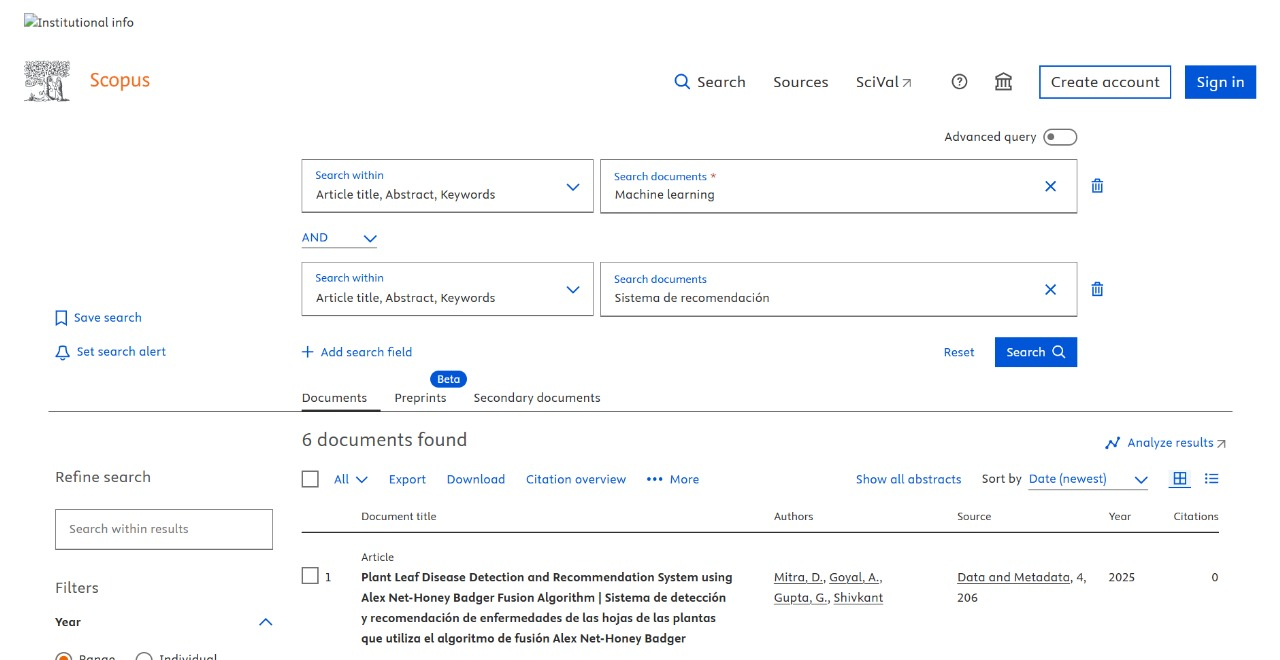
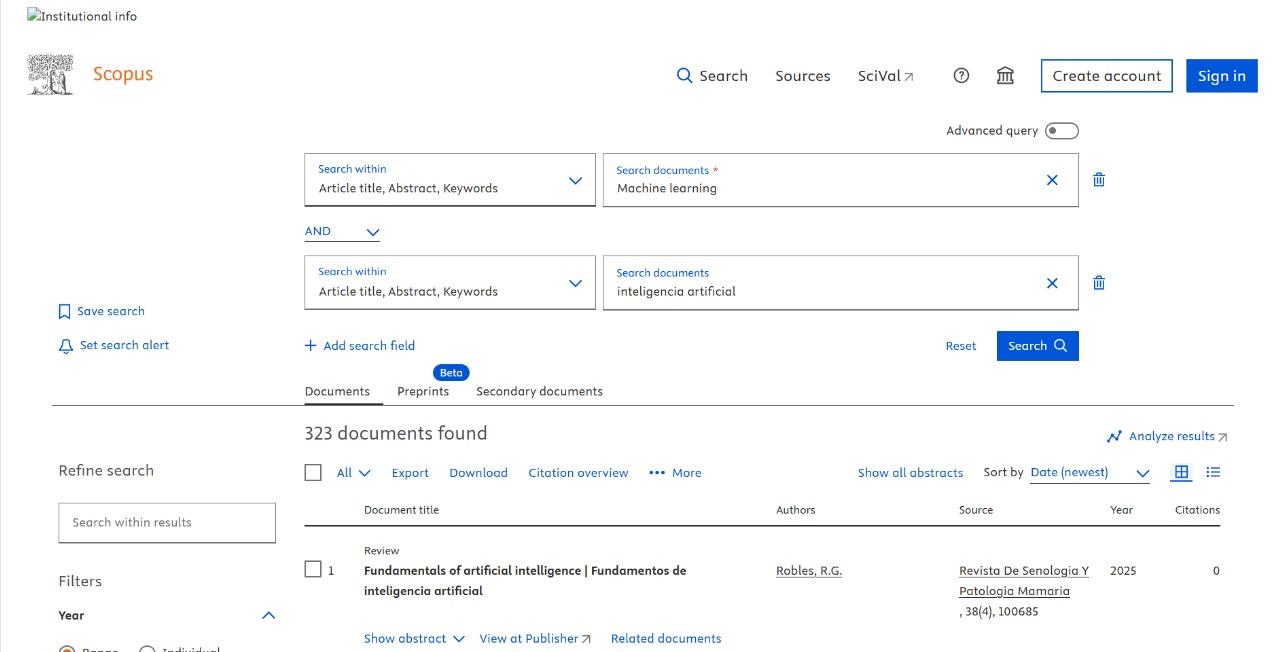
Se corrige orden de busqueda, se añade informacion de los artículos se completa la página

diff --git a/index.html b/index.html
@@ -21,8 +21,8 @@
             <tr>
                 <td><button onclick="mostrarPresentacion()">OBJETIVO DEL EJERCICIO</button></td>
                 <td><button onclick="mostrarBusqueda()">BUSQUEDA ARTÍCULOS</button></td>
-                <td><button onclick="mostrarArtFrank()">ARTÍCULOS FRANK</button></td>
                 <td><button onclick="mostrarArtJhoan()">ARTÍCULOS JHOAN</button></td>
+                <td><button onclick="mostrarArtFrank()">ARTÍCULOS FRANK</button></td>
                 <td><button onclick="aviso()">DECLARACIÓN IA</button></td>
             </tr>
         </table>   
@@ -48,25 +48,79 @@
             <p>Cabe aclarar, que elegimos este tema porque los sistemas de recomendación hacen parte de nuestra vida diaria, ya que casi todas las aplicaciones que usamos nos sugieren cosas según nuestros gustos.</p>
             <br>
         </div>  
-        <div class="artfrank">
-            <hr>
-            <h2 class="head3">SELECCIÓN DE ARTÍCULOS POR PARTE DE FRANK</h2> 
-            <p>Para la busqueda, armamos cadenas de búsqueda diferentes con operadores booleanos (AND, OR, NOT), posteriormente seleccionamos artículos de interés. A condinuación, se muestra en imágenes la cadena de busqueda usada por cada uno de los integrantes</p>
-            <h3>Busqueda realizada por Jhoan:</h3>
-            <h3>Busqueda realizada por Frank:</h3>
-            <p>Como se puede apreciar en las imagenes, nuestro tema elegido son los sistemas de recomendación basados en IA. Pues la base de la cadena de busqueda es Machine Learning junto con sistema de recomendación e inteligencia artificial.</p>
-            <p>Cabe aclarar, que elegimos este tema porque los sistemas de recomendación hacen parte de nuestra vida diaria, ya que casi todas las aplicaciones que usamos nos sugieren cosas según nuestros gustos.</p>
-            <br>
-        </div>  
         <div class="artjhoan">
             <hr>
-            <h2 class="head4">SELECCIÓN DE ARTÍCULOS POR PARTE DE JHOAN</h2> 
-            <p>Para la busqueda, armamos cadenas de búsqueda diferentes con operadores booleanos (AND, OR, NOT), posteriormente seleccionamos artículos de interés. A condinuación, se muestra en imágenes la cadena de busqueda usada por cada uno de los integrantes</p>
-            <h3>Busqueda realizada por Jhoan:</h3>
-            <h3>Busqueda realizada por Frank:</h3>
-            <p>Como se puede apreciar en las imagenes, nuestro tema elegido son los sistemas de recomendación basados en IA. Pues la base de la cadena de busqueda es Machine Learning junto con sistema de recomendación e inteligencia artificial.</p>
-            <p>Cabe aclarar, que elegimos este tema porque los sistemas de recomendación hacen parte de nuestra vida diaria, ya que casi todas las aplicaciones que usamos nos sugieren cosas según nuestros gustos.</p>
-            <br>
+            <h2 class="head3">SELECCIÓN DE ARTÍCULOS POR PARTE DE JHOAN</h2> 
+            <p><b>Autor de la búsqueda:</b> Jhoan Alejandro Barrera Aguilar</p>
+            <p><b>Base de datos consultada:</b> Scopus</p>
+            <p><b>Cadena de búsqueda:</b> "Sistema de recomendación + AND + machine learning"</p>
+            <p><b>Total de artículos encontrados:</b> 6</p>
+            <h3>Artículos seleccionados:</h3>
+            <ul class="listajohan">
+                <li>
+                    <b>Título:</b> A job recommender system for the unique framework of classification of occupations in Colombia (CUOC) via collaborative filtering <br>
+                    <b>Autores:</b> Caro Cortés, C. M., & Ospina López, J. P. <br>
+                    <b>Año:</b> 2024 <br>
+                    <b>Fuente:</b> Ingeniería y Universidad, 28, 1-20 <br>
+                    <b>Resumen:</b> Sistema de recomendación de empleos basado en filtrado colaborativo, diseñado para el marco único de clasificación de ocupaciones en Colombia. <br>
+                    <b>Palabras clave:</b> Recommender systems, collaborative filtering, CUOC.
+                </li>
+                <br>
+                <li>
+                    <b>Título:</b> Crop insurance premium recommendation system using artificial intelligence techniques <br>
+                    <b>Autores:</b> Prakash, M. C., & Saravanan, P. <br>
+                    <b>Año:</b> 2023 <br>
+                    <b>Fuente:</b> International Journal of Professional Business Review, 8(4), e01270 <br>
+                    <b>Resumen:</b> Propuesta de un sistema de recomendación para primas de seguros agrícolas utilizando técnicas de inteligencia artificial. <br>
+                    <b>Palabras clave:</b> AI, crop insurance, recommendation system.
+                </li>
+                <br>
+                <li>
+                    <b>Título:</b> Recommender system for e-health <br>
+                    <b>Autores:</b> Aljabr, A., & Kumar, K. <br>
+                    <b>Año:</b> 2024 <br>
+                    <b>Fuente:</b> Data and Metadata, 3, 370 <br>
+                    <b>Resumen:</b> Estudio de un sistema de recomendación aplicado al ámbito de la salud electrónica. <br>
+                    <b>Palabras clave:</b> e-health, recommender systems, data-driven healthcare.
+                </li>
+            </ul>
+        </div>  
+        <div class="artfrank">
+            <hr>
+            <h2 class="head4">SELECCIÓN DE ARTÍCULOS POR PARTE DE FRANK</h2> 
+            <p><b>Autor de la búsqueda:</b> Frank Camilo Gordillo Peña</p>
+            <p><b>Base de datos consultada:</b> Scopus</p>
+            <p><b>Cadena de búsqueda:</b> "Machine learning + AND + inteligencia artificial"</p>
+            <p><b>Total de artículos encontrados:</b> 323</p>
+            <h3>Artículos seleccionados:</h3>
+            <ul class="listafrank">
+                <li>
+                    <b>Título:</b> Experiential interventions in machine learning processes <br>
+                    <b>Autor:</b> Navarro, D. S. <br>
+                    <b>Año:</b> 2025 <br>
+                    <b>Fuente:</b> Gráfica, 13(25), 179–185 <br>
+                    <b>Resumen:</b> Explora intervenciones experienciales en los procesos de machine learning y su impacto en la eficiencia de los modelos. <br>
+                    <b>Palabras clave:</b> Machine learning, experiential learning, AI processes.
+                </li>
+                <br>
+                <li>
+                    <b>Título:</b> Study of machine learning techniques for robotic finger monitoring using image-based macro-bending fiber optic sensor <br>
+                    <b>Autores:</b> Ospino-Manjarres, K., Zambrano-Gutierrez, D., Cruz-Duarte, J. M., Escalante-Sanchez, K., & Rojas-Laguna, R. <br>
+                    <b>Año:</b> 2025 <br>
+                    <b>Fuente:</b> Óptica Pura y Aplicada, 58(1), 51187 <br>
+                    <b>Resumen:</b> Investigación sobre técnicas de machine learning aplicadas al monitoreo de dedos robóticos mediante sensores ópticos de macrocurvatura. <br>
+                    <b>Palabras clave:</b> Machine learning, robotics, optical sensors, monitoring.
+                </li>
+                <br>
+                <li>
+                    <b>Título:</b> Artificial intelligence and personalized learning: Educational innovation or revived promises? <br>
+                    <b>Autores:</b> Serrano, J. L., & Moreno-García, J. <br>
+                    <b>Año:</b> 2024 <br>
+                    <b>Fuente:</b> Edutec, (89), 1–15 <br>
+                    <b>Resumen:</b> Analiza el papel de la inteligencia artificial en el aprendizaje personalizado, discutiendo su potencial innovador en educación. <br>
+                    <b>Palabras clave:</b> Artificial intelligence, personalized learning, educational innovation.
+                </li>
+            </ul>
         </div>  
         <hr> 
     </div>

diff --git a/script.js b/script.js
@@ -29,19 +29,6 @@ function mostrarBusqueda() {
     }
 }
 
-function mostrarArtFrank() {
-  const datos = document.querySelector(".artfrank");
-    if (artFrank){
-        datos.style.display = 'none';
-        artFrank = false;
-    }
-    else{
-        datos.style.display = 'block';
-        artFrank = true;
-        datos.querySelector(".head3").scrollIntoView({behavior:"smooth"});
-    }
-}
-
 function mostrarArtJhoan() {
   const datos = document.querySelector(".artjhoan");
     if (artJhoan){
@@ -51,9 +38,24 @@ function mostrarArtJhoan() {
     else{
         datos.style.display = 'block';
         artJhoan = true;
-        datos.querySelector(".head4").scrollIntoView({ behavior:"smooth"});
+        datos.querySelector(".head3").scrollIntoView({ behavior:"smooth"});
     }
 }
+
+function mostrarArtFrank() {
+  const datos = document.querySelector(".artfrank");
+    if (artFrank){
+        datos.style.display = 'none';
+        artFrank = false;
+    }
+    else{
+        datos.style.display = 'block';
+        artFrank = true;
+        datos.querySelector(".head4").scrollIntoView({behavior:"smooth"});
+    }
+}
+
+
 function aviso(){
     window.alert("⚠ Aviso Importante\n\n" +
     "Para el desarrollo de este trabajo se hizo uso de la herramienta ChatGPT de OpenAI, principalmente en asustos de redacción y correción de errores.\n\n" +

diff --git a/estilos.css b/estilos.css
@@ -123,6 +123,15 @@ body {
   padding-left: 150px;
 }
 
+.listajohan, .listafrank{
+  color: rgba(255, 255, 255, 0.8);
+  padding-left: 90px;
+  padding-right: 40px;
+  font-family: 'Segoe UI', Tahoma, Geneva, Verdana, sans-serif;
+  font-weight: 400;
+  letter-spacing: 0.5px;
+}
+
 .presentacion, .busqueda, .artfrank, .artjhoan{
   display: none;
 }
